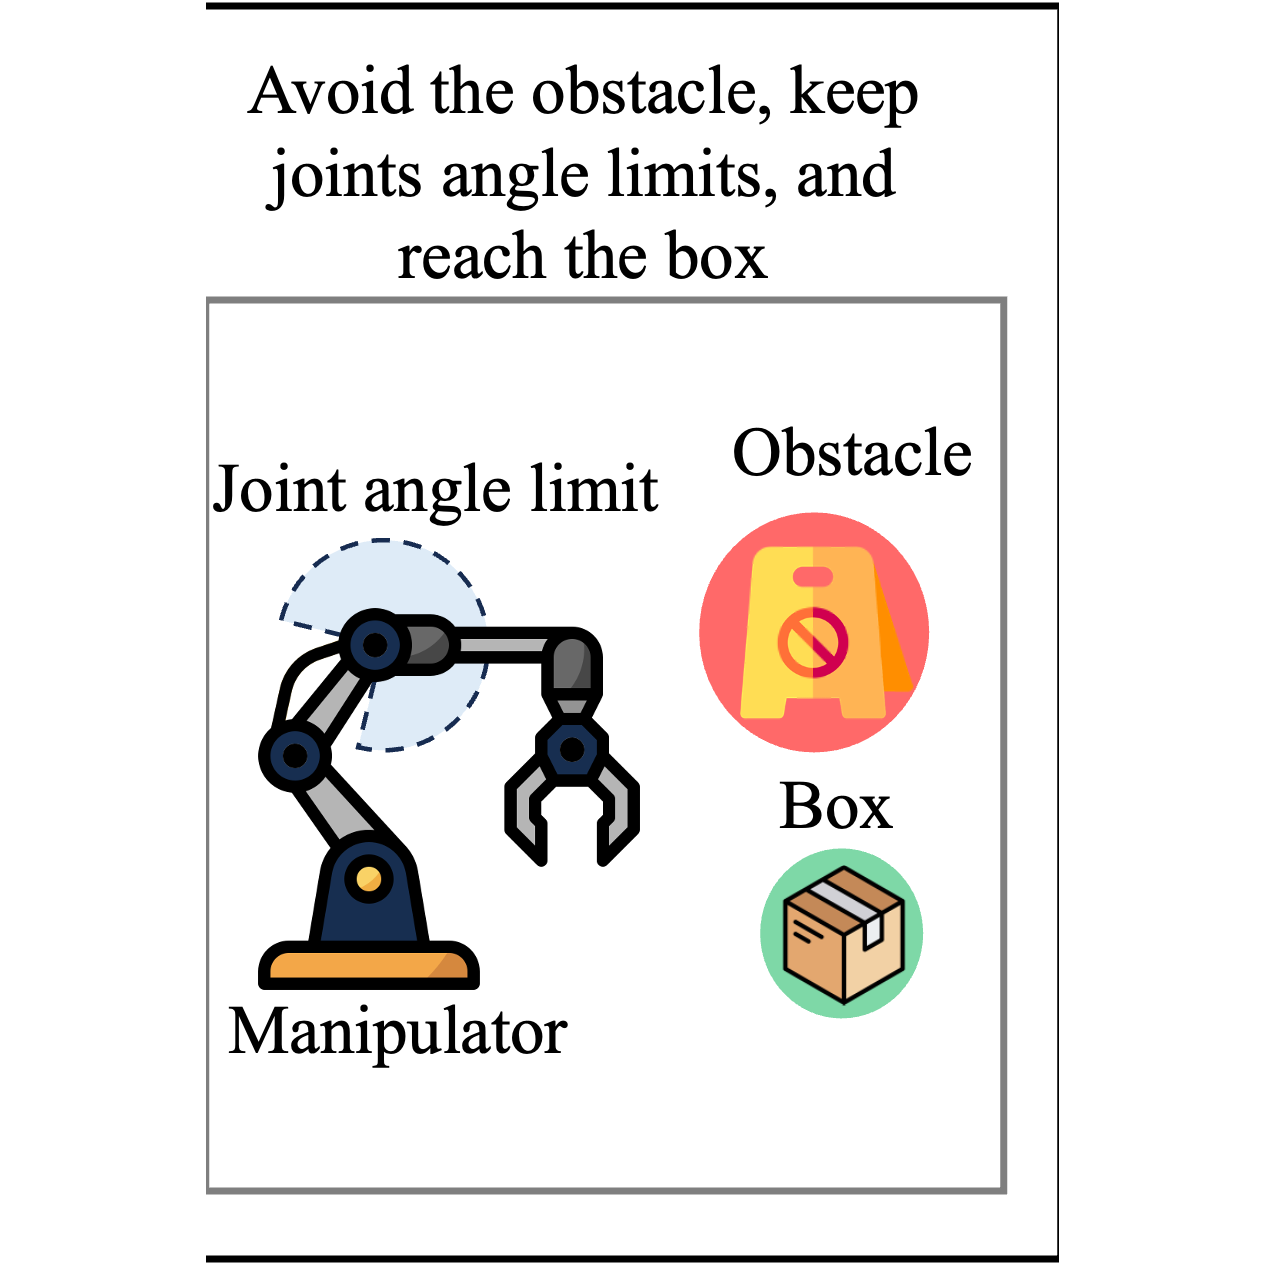
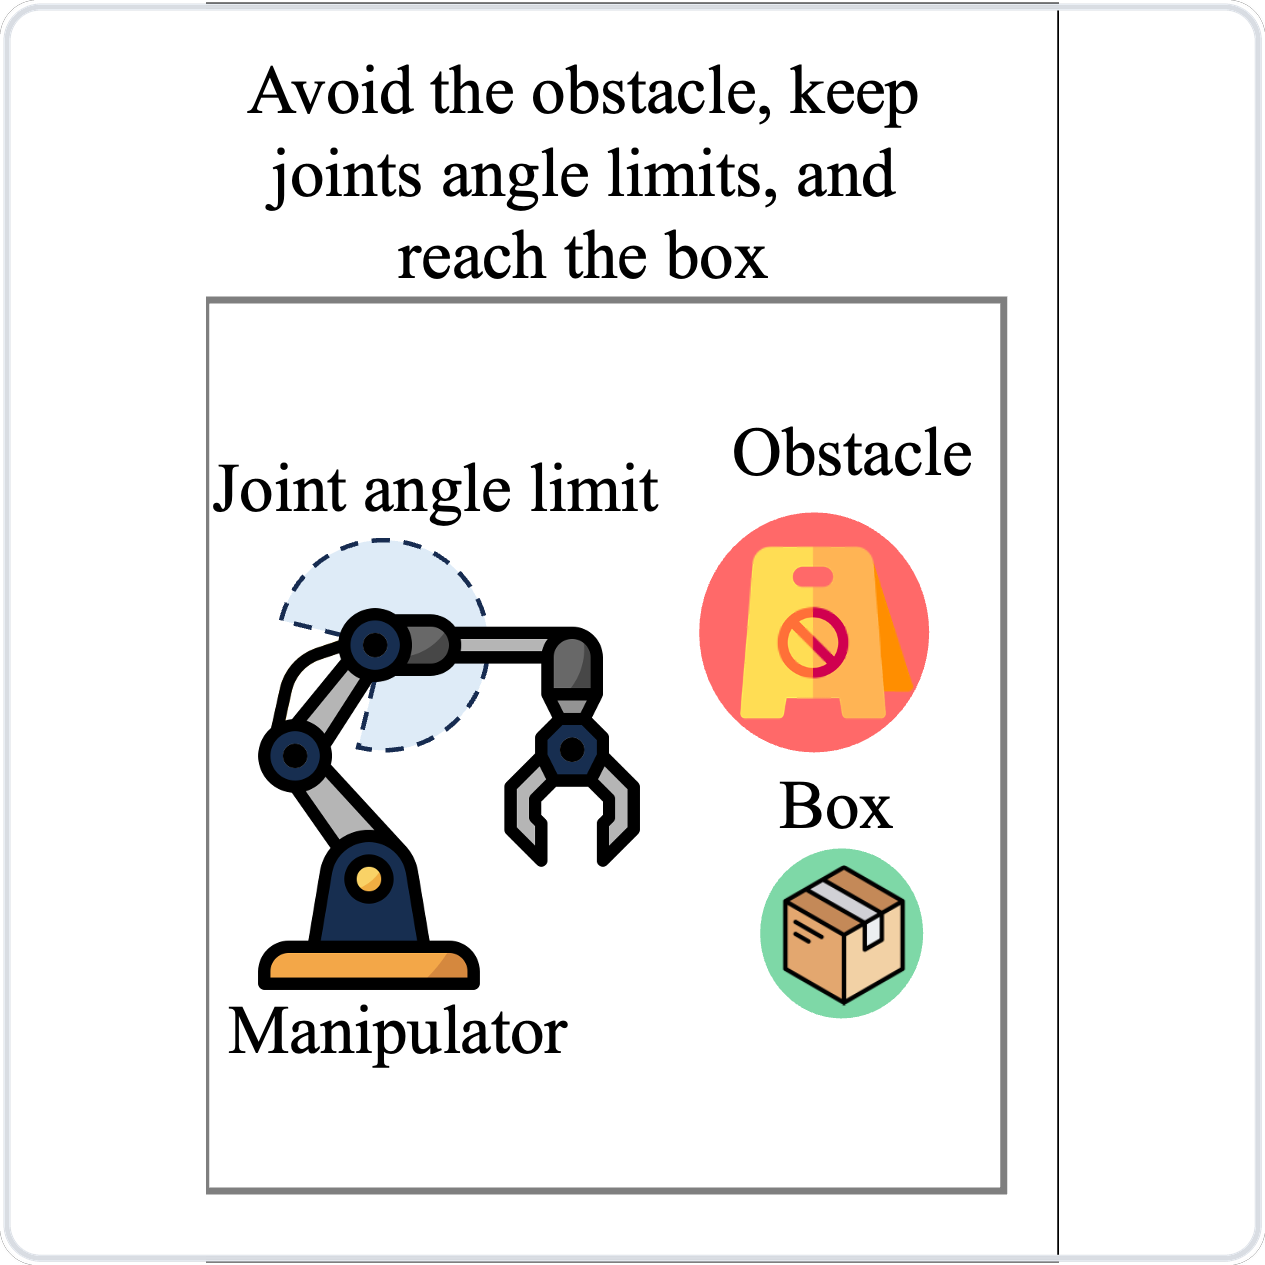
add alert callout + checklist, collapsible earlier-work, rounded-card images

Changed region(s): [[0.0, 0.0, 1.0, 1.0]]

diff --git a/README.md b/README.md
@@ -22,11 +22,16 @@
 
 <br>
 
+> [!NOTE]
 > Old habit — everything eventually gets written as a spec:
 >
 > $\Box(\text{explore} \land \text{formalize}) \land \Diamond(\text{ship robust policy})$
 >
 > always keep exploring and formalizing, and eventually ship something that survives outside the lab.
+>
+> - [x] Signal Temporal Logic → diffusion policies
+> - [x] graph-encoded flow matching for planning
+> - [ ] robot learning that reliably ships outside the lab
 
 <br>
 
@@ -47,7 +52,12 @@
 
 <br>
 
-<p align="center"><sub>Earlier: <a href="https://github.com/mengyuest/AdaFuse">AdaFuse</a> (ICLR 2021) · <a href="https://github.com/mengyuest/AR-Net">AR-Net</a> (ECCV 2020) · <a href="https://github.com/mengyuest/SIGNet">SIGNet</a> (CVPR 2019)</sub></p>
+<div align="center">
+<details>
+<summary><sub><b>Earlier work</b></sub></summary>
+<sub><a href="https://github.com/mengyuest/AdaFuse">AdaFuse</a> — ICLR 2021, adaptive temporal fusion for efficient action recognition<br><a href="https://github.com/mengyuest/AR-Net">AR-Net</a> — ECCV 2020, learned resolution/skip policy for efficient video understanding<br><a href="https://github.com/mengyuest/SIGNet">SIGNet</a> — CVPR 2019, semantic-aware self-supervised monocular depth</sub>
+</details>
+</div>
 
 <br>
 
